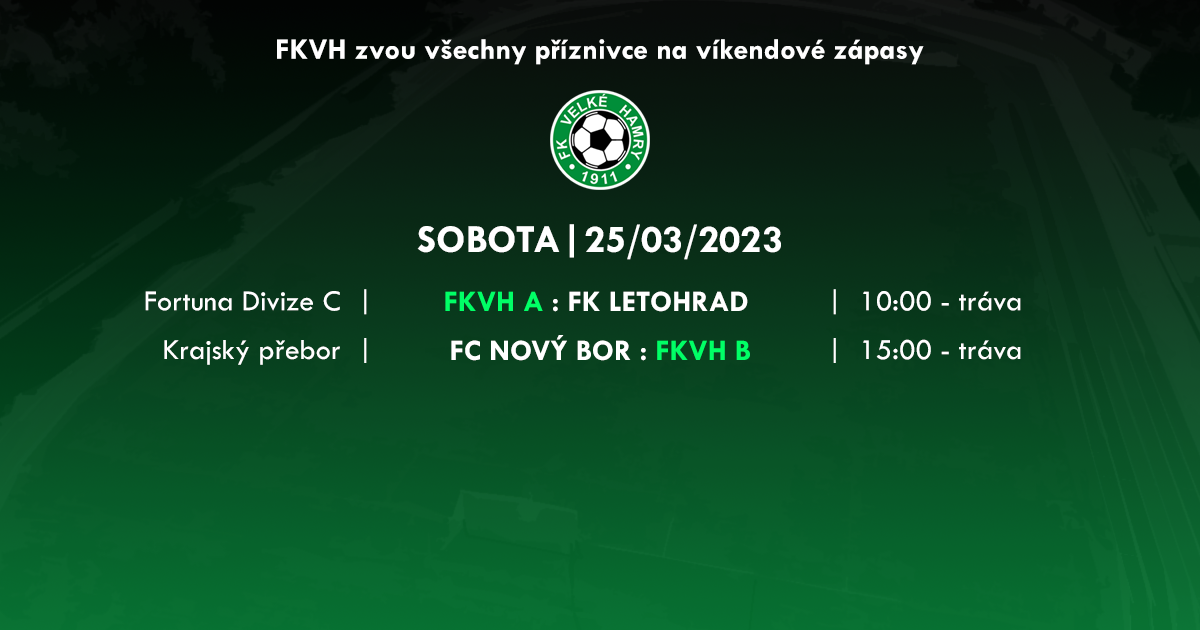
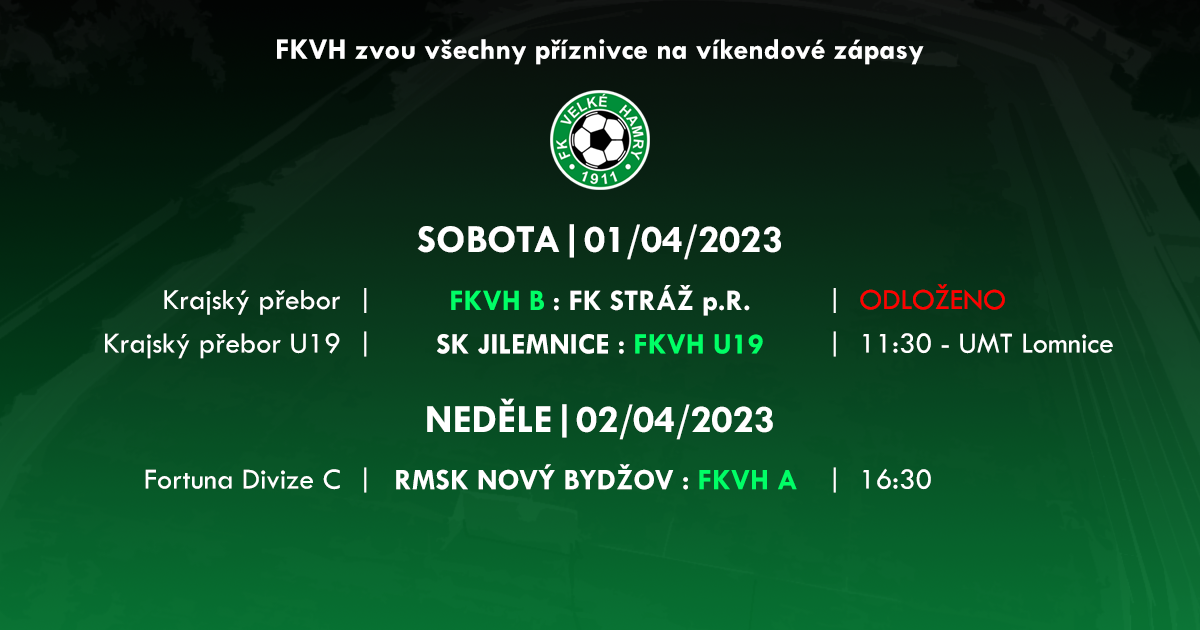
upd

diff --git a/src/index_B.html b/src/index_B.html
@@ -205,7 +205,7 @@
 					
 									<div class="col-xs-4 col-sm-4 col-md-4 col-lg-4">
 										<div class="match-description">
-											<div class="liga-vs">:</div>
+											<div class="liga-vs">1:3</div>
 										</div>
 									</div>									
 
@@ -218,7 +218,7 @@
 									</div>
 
 								</div>
-<!--
+
 								<div class="row">
 						
 									<div class="col-xs-12 col-sm-12 col-md-12 col-lg-12">
@@ -226,11 +226,12 @@
 											<div class="liga-location">
 												<p>
 												<br /><br />
-												<b>Branky:</b> 7. Jindřich, 29. Šťovíček, 37. Zounek, 75. Rudolf, 88. Rudolf, 90. Javůrek P.
+												<b>Branky:</b> 8. Stromecký - 25. Zounek, 71. Vosecký, 81. Javůrek P.
 												<br /><br />
-												<b>Sestava:</b> Masařík - Janda (60. Hušek), Macháček, Javůrek P. - Jindřich (46. Schmied), Javůrek M., Zounek (65. Mihálik), Jeřábek - Šťovíček (65. Syrovátka), Svrček (60. Vosecký), Rudolf
+												<b>Sestava:</b> Masařík - Janda, Macháček, Javůrek P., Kozák - Javůrek M. (46. Hušek) - Reichl (52. Melich (72. Sochor)), Mihálik (46. Jodas), Jelínek, Zounek - Vosecký
+
 												<br /><br />
-												<b>Záznam:</b> <a href="https://1url.cz/@HamRov22-23">TVCOM</a>
+												<b>Záznam:</b> xx <!--	<a href="https://1url.cz/@BorHam22-23">TVCOM</a>	-->
 												<br />
 												</p>
 											</div>
@@ -238,7 +239,7 @@
 									</div>
 								
 								</div>
--->
+
 							</div>
 						</div>
 					</div>
@@ -287,16 +288,7 @@
 													<td>15:00</td>
 													<td>FC Nový Bor</td>
 													<td>FK Velké Hamry</td>
-													<td>-</td>
-												</tr>
-												<tr>
-													<td>18.</td>
-													<td>sobota</td>
-													<td>01.04.2023</td>
-													<td>10:00</td>
-													<td>FK Velké Hamry</td>
-													<td>FK Stráž p.R.</td>
-													<td>-</td>
+													<td>1:3 (1:1)</td>
 												</tr>
 												<tr>
 													<td>19.</td>
@@ -323,6 +315,15 @@
 													<td>10:30</td>
 													<td>Slovan Frýdlant</td>
 													<td>FK Velké Hamry</td>
+													<td>-</td>
+												</tr>
+												<tr>
+													<td>18.</td>
+													<td>středa</td>
+													<td>26.04.2023</td>
+													<td>17:00</td>
+													<td>FK Velké Hamry</td>
+													<td>FK Stráž p.R.</td>
 													<td>-</td>
 												</tr>
 												<tr>
@@ -353,21 +354,21 @@
 													<td>-</td>
 												</tr>
 												<tr>
+													<td>26.</td>
+													<td>středa</td>
+													<td>17.05.2023</td>
+													<td>17:00</td>
+													<td>FC Lomnice n.P.</td>
+													<td>FK Velké Hamry</td>
+													<td>-</td>
+												</tr>
+												<tr>
 													<td>25.</td>
 													<td>neděle</td>
 													<td>21.05.2023</td>
 													<td>17:00</td>
 													<td>FK Velké Hamry</td>
 													<td>SK Studenec</td>
-													<td>-</td>
-												</tr>
-												<tr>
-													<td>26.</td>
-													<td>sobota</td>
-													<td>27.05.2023</td>
-													<td>17:00</td>
-													<td>FC Lomnice n.P.</td>
-													<td>FK Velké Hamry</td>
 													<td>-</td>
 												</tr>
 												<tr>

diff --git a/src/index_A.html b/src/index_A.html
@@ -174,7 +174,7 @@
 										<div class="col-xs-12 col-sm-12 col-md-12 col-lg-12">
 											<div class="match-description">
 												<div class="liga-name">FORTUNA Divize C</div>
-												<div class="liga-location">04.03.2023</div>
+												<div class="liga-location">25.03.2023</div>
 											</div>
 										</div>
 									
@@ -184,21 +184,21 @@
 
 										<div class="col-xs-4 col-sm-4 col-md-4 col-lg-4">
 											<div class="match-club">
-												<img src="/images/logos/logo_caslav.png" alt="" />
-												<div class="club-name">FK ČÁSLAV</div>
+												<img src="/images/logos/logo_fkvh.png" alt="" />
+												<div class="club-name">FK VELKÉ HAMRY</div>
 											</div>
 										</div>	
 						
 										<div class="col-xs-4 col-sm-4 col-md-4 col-lg-4">
 											<div class="match-description">
-												<div class="liga-vs">1:0</div>
+												<div class="liga-vs">2:1</div>
 											</div>
 										</div>									
 
 										<div class="col-xs-4 col-sm-4 col-md-4 col-lg-4">
 											<div class="match-club">
-												<img src="/images/logos/logo_fkvh.png" alt="" />
-												<div class="club-name">FK VELKÉ HAMRY</div>
+												<img src="/images/logos/logo_letohrad.png" alt="" />
+												<div class="club-name">FK LETOHRAD</div>
 											</div>
 										</div>
 
@@ -211,11 +211,12 @@
 												<div class="liga-location">
 													<p>
 													<br /><br />
-													<b>Branky:</b> 54. Ronovský
+													<b>Branky:</b> 56. Černý, 91. Vosecký - 73. Počtýnský
 													<br /><br />
-													<b>Sestava:</b> Klement - Štěpánek M. (81. Zounek), Štěpánek O., Váňa, Šidlo - Munzar, Linka - Žitka, Krejčík (72. Šohaj), Rudolf (77. Jelínek) - Černý
+													<b>Sestava:</b> Klement - Štěpánek M. (89. Vosecký), Javůrek M., Váňa, Štěpánek O. - Munzar, Linka - Žitka, Krejčík, Šohaj (73. Rudolf) - Černý (90. Kozák)
+
 													<br /><br />
-													<b>Záznam:</b> <a href="https://1url.cz/@CasHam22-23">TVCOM</a>
+													<b>Záznam:</b> <a href="https://1url.cz/@HamLet22-23">TVCOM</a>
 													<br />
 													</p>
 												</div>
@@ -298,7 +299,7 @@
 														<td>10:00</td>
 														<td>FK Velké Hamry</td>
 														<td>FK Letohrad</td>
-														<td>-</td>
+														<td>2:1 (0:0)</td>
 													</tr>
 													<tr>
 														<td>20.</td>

diff --git a/src/index.html b/src/index.html
@@ -189,10 +189,10 @@
 						<p>
 						<b>POZVÁNKA NA VÍKEND</b>
 							
-						
+						<!--
 						<br /><br />
 						Bulletin k nadcházejícímu domácímu diviznímu utkání <a href="bulletin/bulletin.pdf" target="_blank">ZDE</a>.
-						
+						-->
 						
 						<br /><br />
 						
